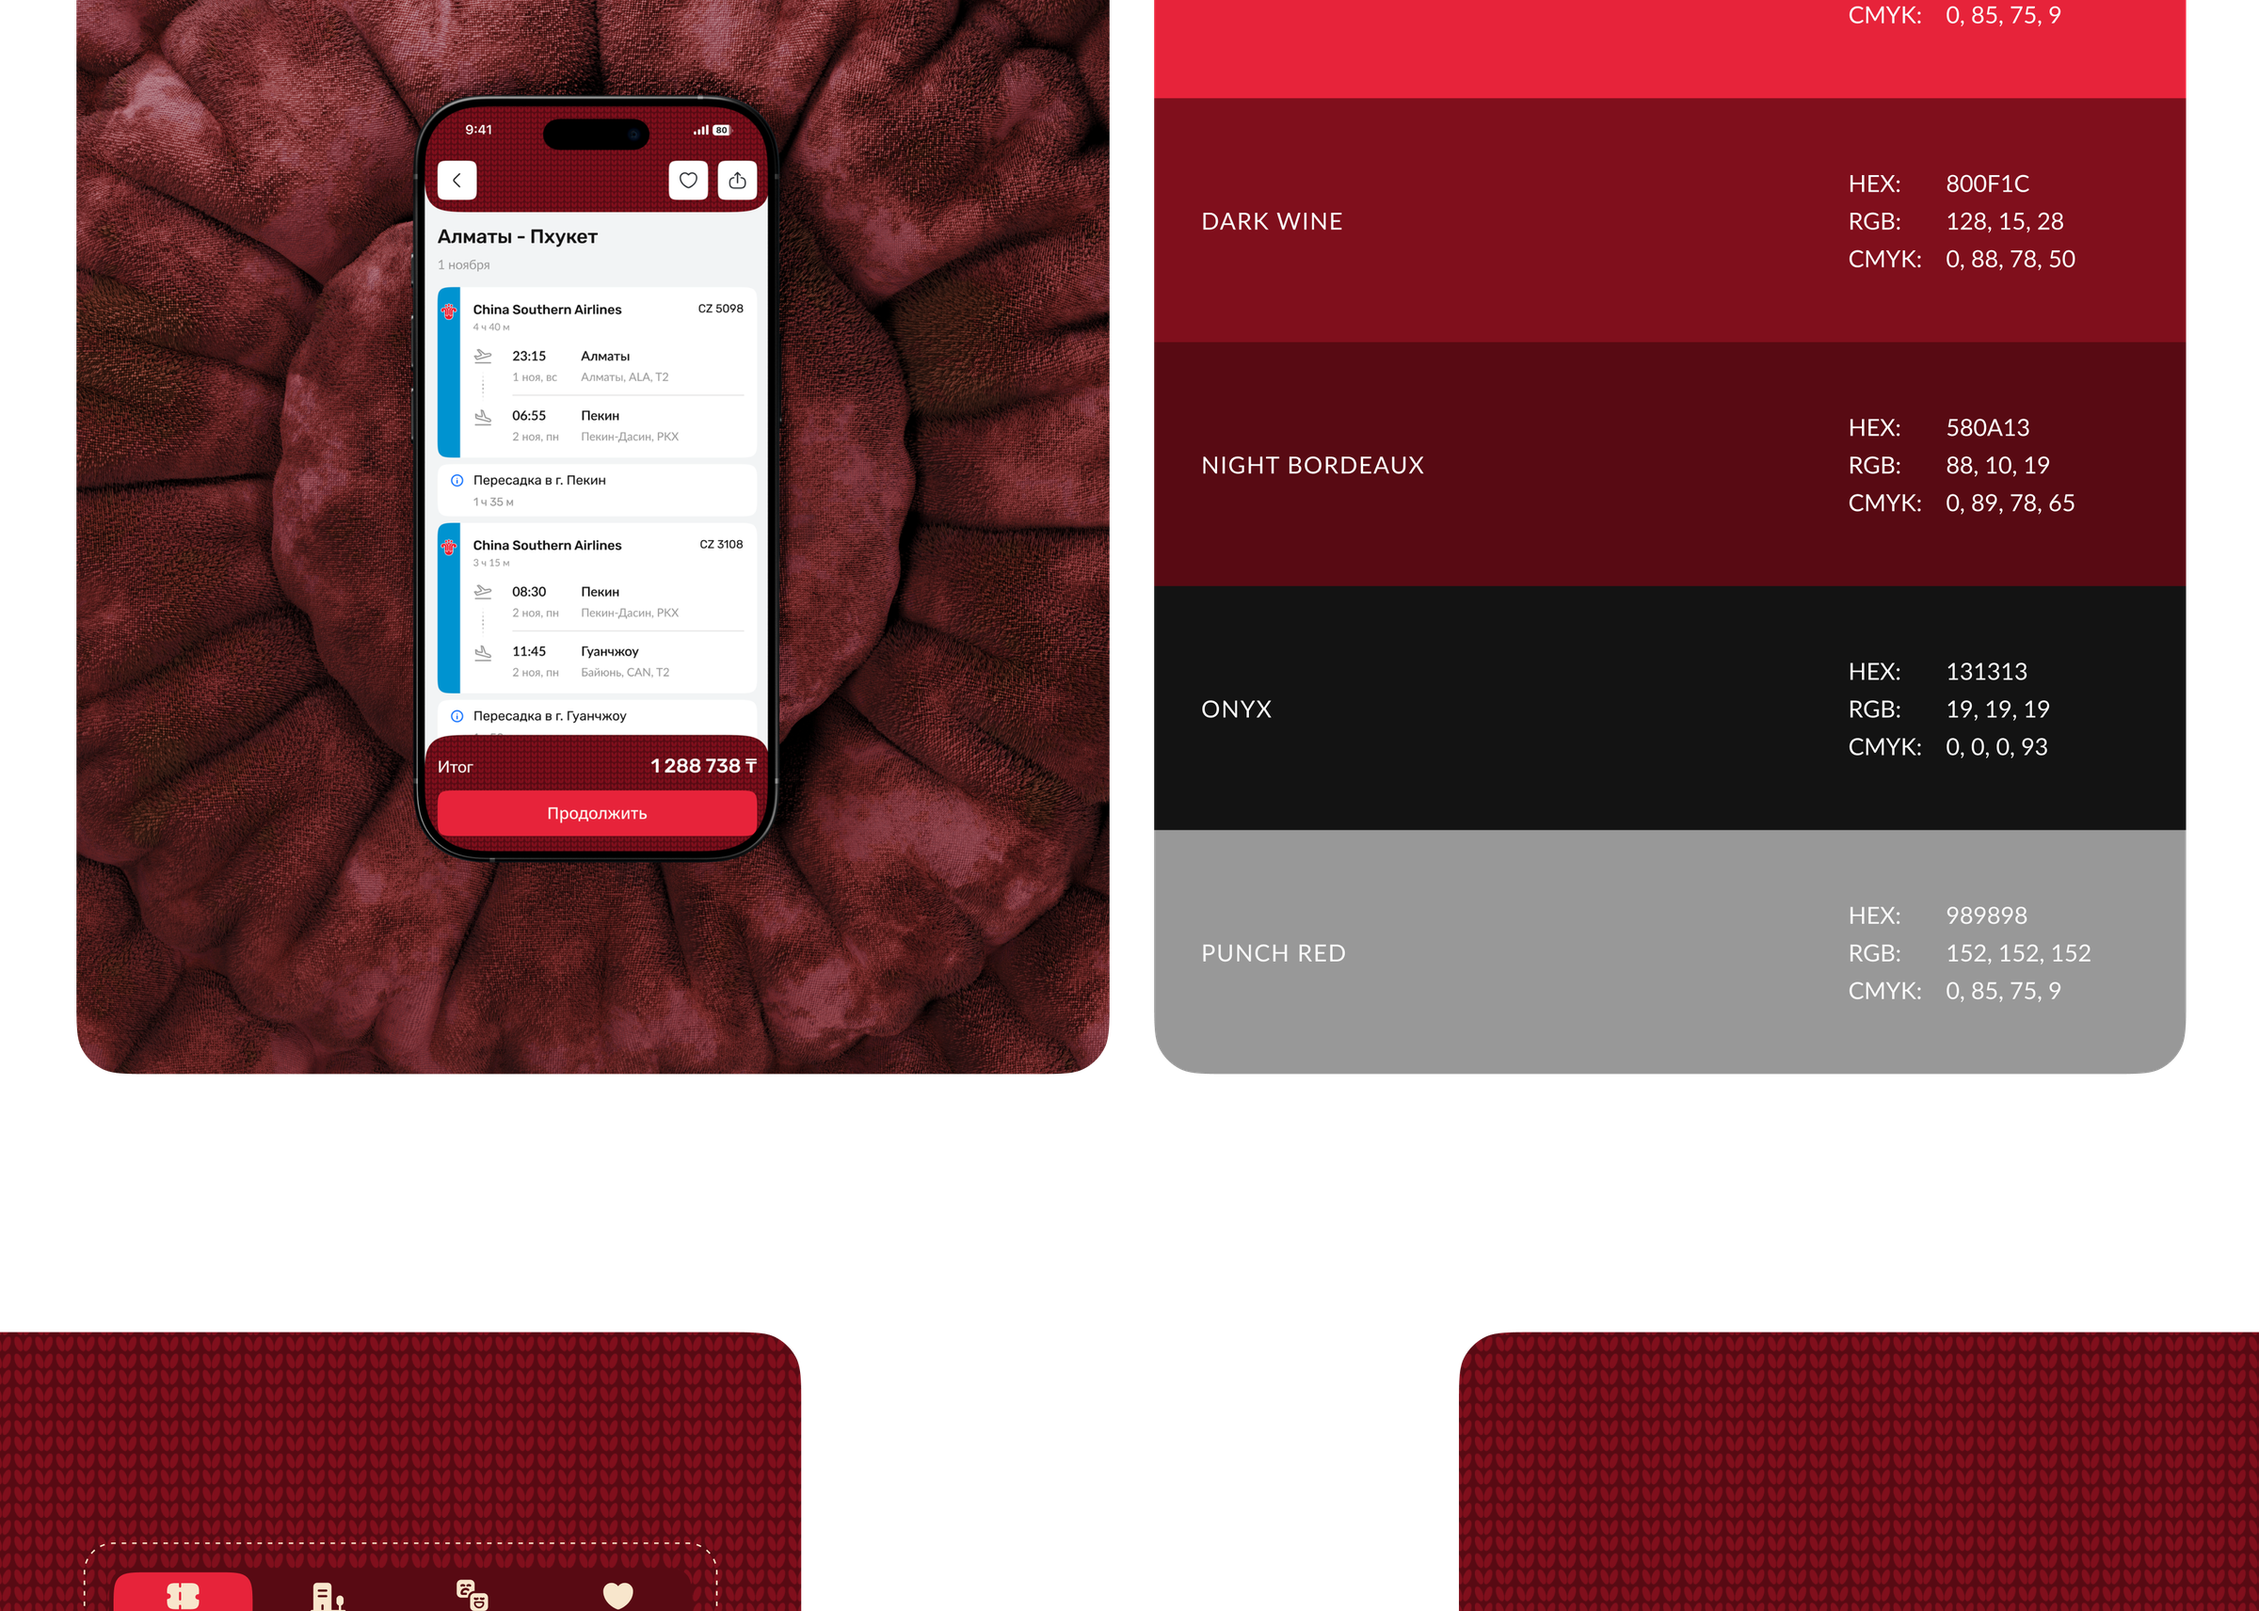
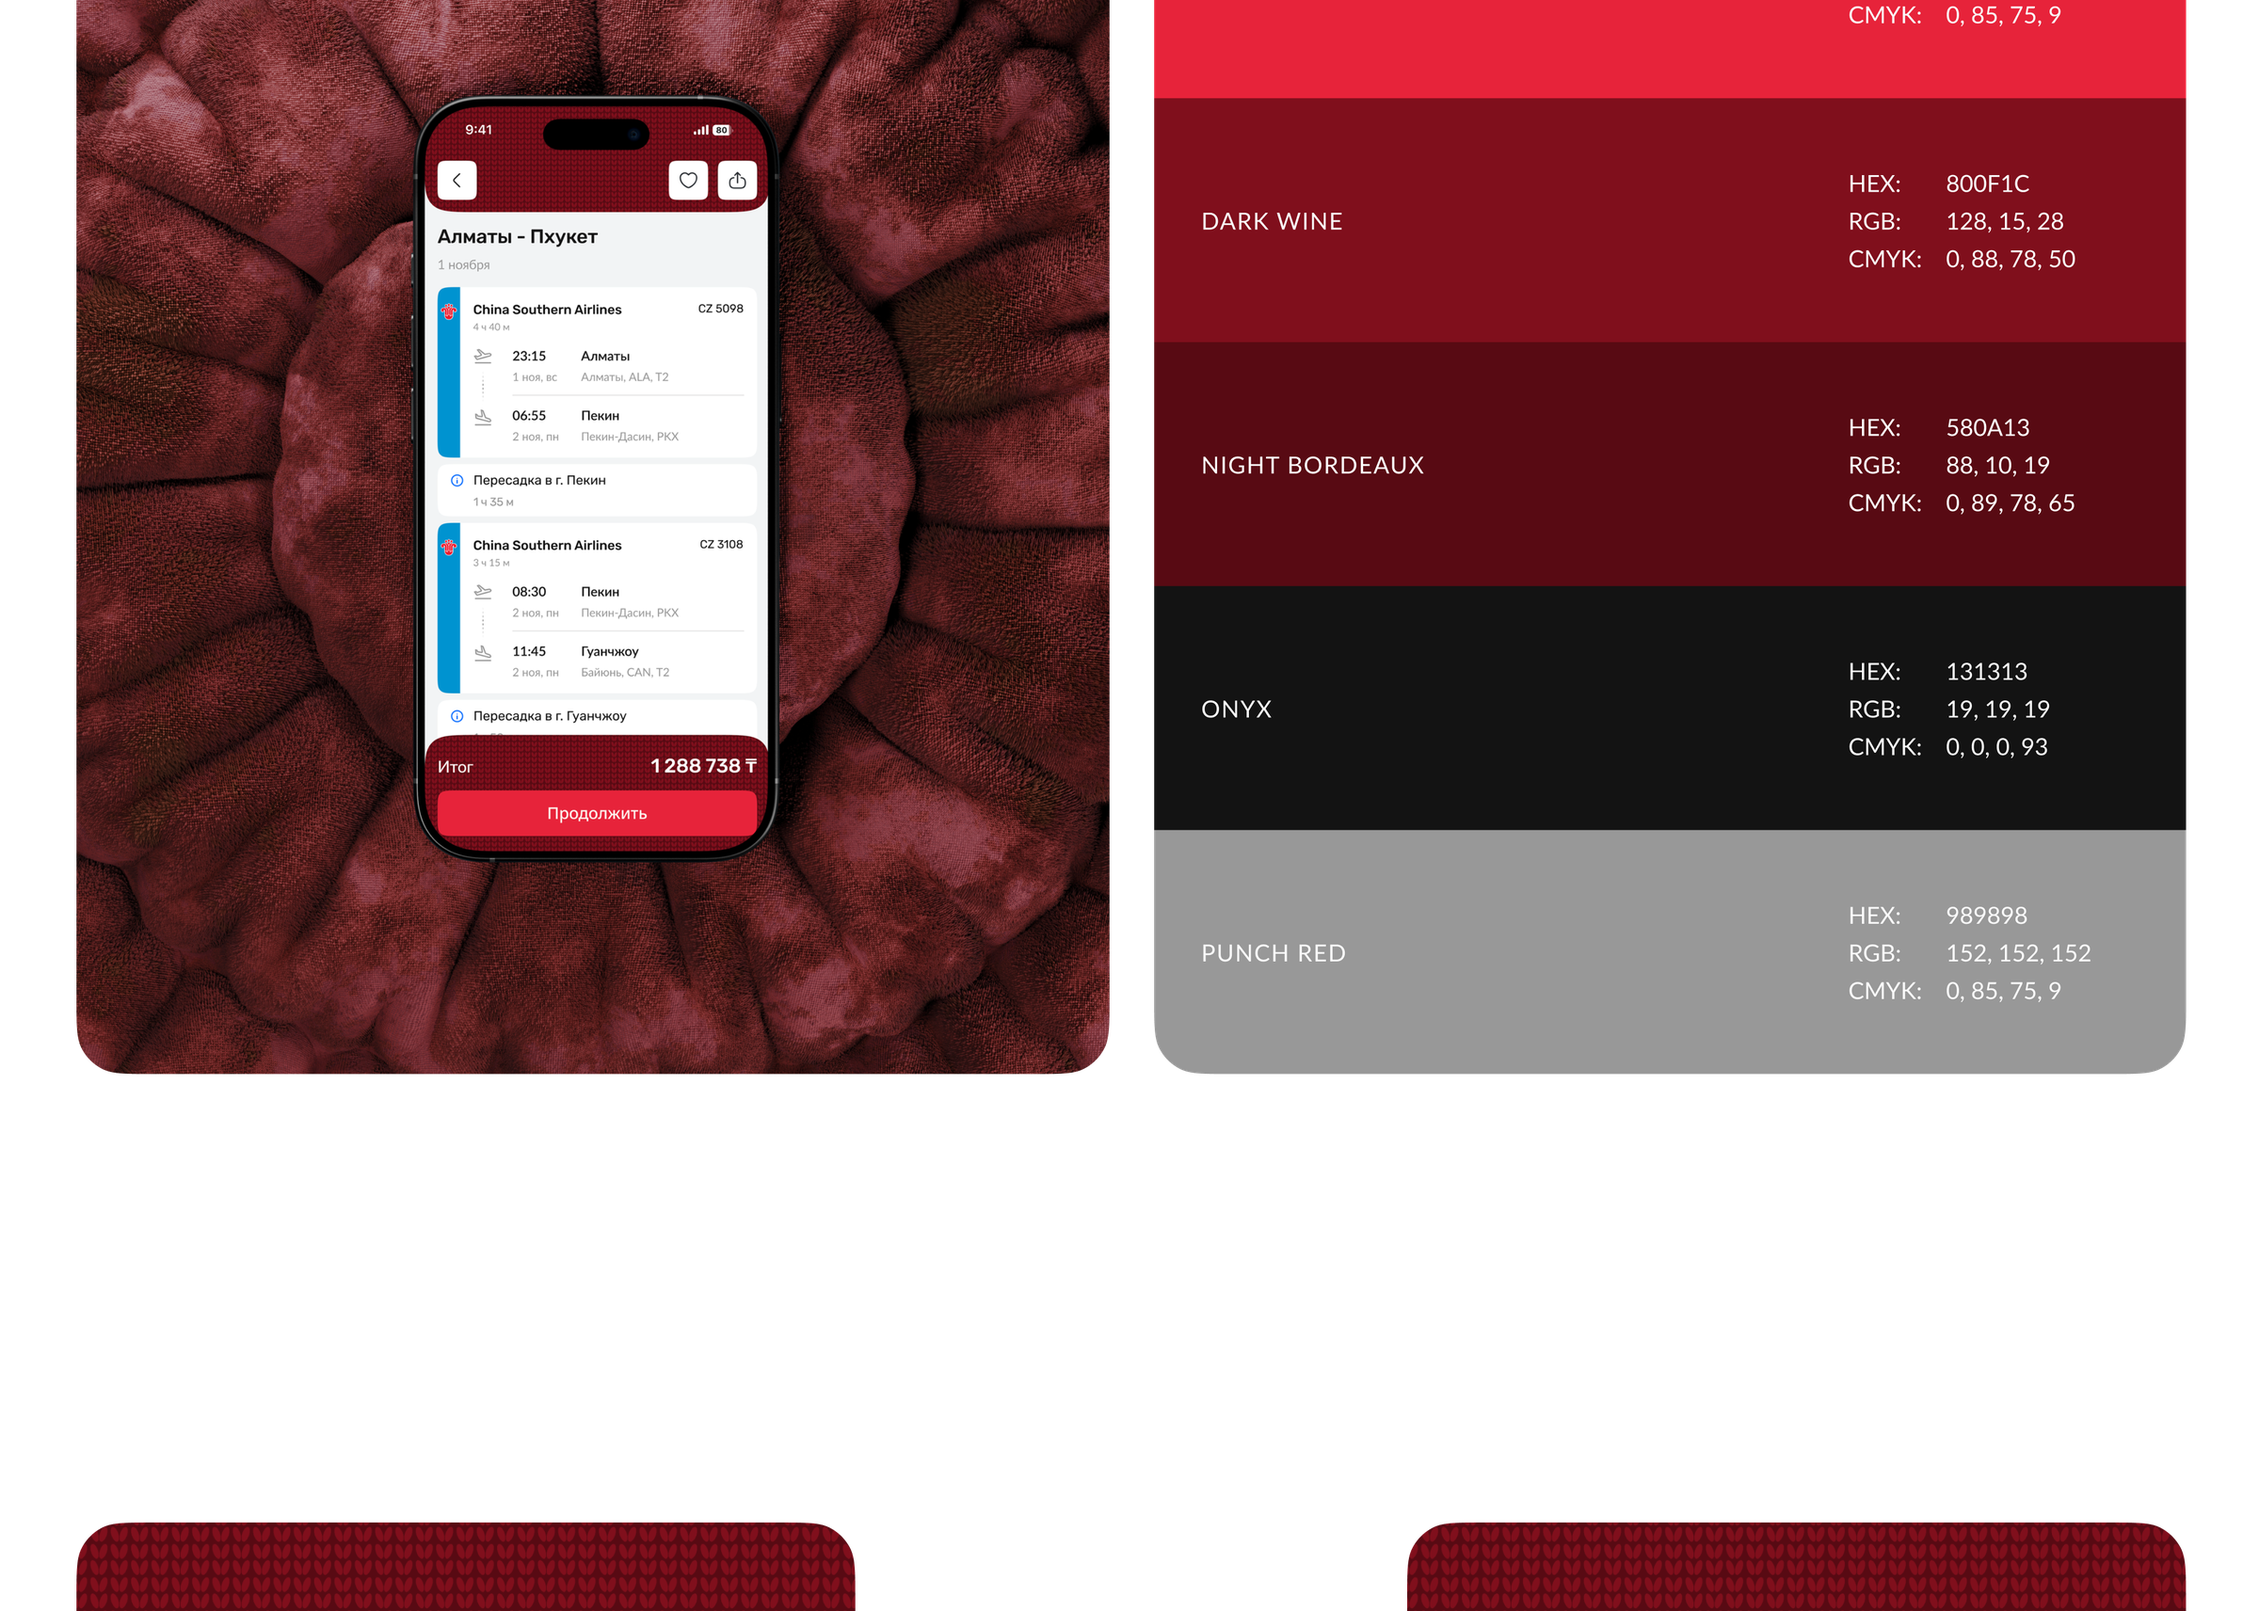
Update Тёплые страны UI panel component from Figma (not deployed)
Re-export and re-slice the bands to reflect the updated Frame 2147229366
(node 3626-112970, left UI panel in the floats section). Slide layout and
overlay coords unchanged. Local only.

Changed region(s): [[0.0, 0.8049, 0.4062, 1.0], [0.625, 0.8049, 1.0, 1.0]]

diff --git a/projects.js b/projects.js
@@ -257,15 +257,15 @@ window.PROJECTS = {
     // адаптируется под тему (светлая/тёмная), а белый контент (экраны, карточки)
     // остаётся белым.
     blocks: [
-      { bleed: "assets/warm-1.png?v=10" },
-      { bleed: "assets/warm-2.png?v=10" },
-      { bleed: "assets/warm-3.png?v=10" },
-      { bleed: "assets/warm-4.png?v=10" },
-      { bleed: "assets/warm-5.png?v=10" },
-      { bleed: "assets/warm-6.png?v=10" },
-      { bleed: "assets/warm-7.png?v=10" },
-      { bleed: "assets/warm-8.png?v=10" },
-      { bleed: "assets/warm-9.png?v=10" },
+      { bleed: "assets/warm-1.png?v=11" },
+      { bleed: "assets/warm-2.png?v=11" },
+      { bleed: "assets/warm-3.png?v=11" },
+      { bleed: "assets/warm-4.png?v=11" },
+      { bleed: "assets/warm-5.png?v=11" },
+      { bleed: "assets/warm-6.png?v=11" },
+      { bleed: "assets/warm-7.png?v=11" },
+      { bleed: "assets/warm-8.png?v=11" },
+      { bleed: "assets/warm-9.png?v=11" },
     ],
     // Парящие объекты (координаты в системе обрезанного макета 1920×12333)
     floats: {

diff --git a/case.html b/case.html
@@ -46,7 +46,7 @@
   </button>
 
   <script src="https://cdn.jsdelivr.net/npm/lenis@1.1.14/dist/lenis.min.js"></script>
-  <script src="projects.js?v=150"></script>
+  <script src="projects.js?v=151"></script>
   <script src="case.js?v=72"></script>
   <script src="script.js?v=23"></script>
 </body>
